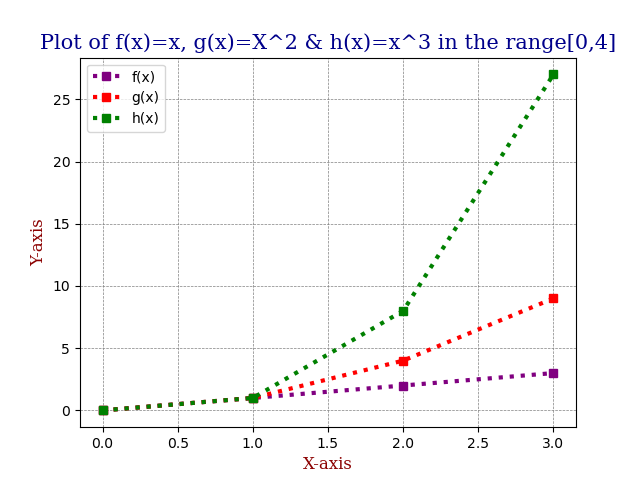
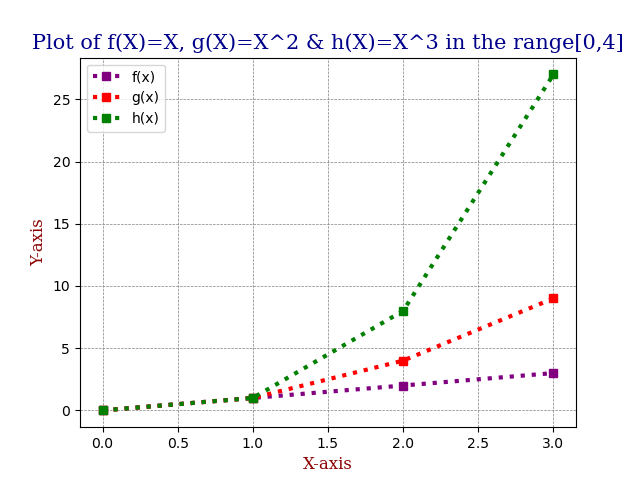
Spell checks and format changes

Changed region(s): [[0.0312, 0.0625, 0.9688, 0.125]]

diff --git a/secondstring.py b/secondstring.py
@@ -3,12 +3,12 @@
 # This program asks a user to input a string and outputs every second letter in reverse order. 
 # author: Fionn McCarthy - G00301126.
 
-# The input function is used below in order to get the user to ednter a sentence.
+# The input function is used below in order to get the user to enter a sentence.
 input_string = input('Please enter a sentence:')
 
-# From research I gathered teh formula used here for string slicing is - str_object[start_pos:end_pos:step].
-# As we want the full length of the string we do no enter the 'start_pos' or the 'end_pos' as we will use teh full string.
-# The '-' below is used to reverse teh string.
+# From research I gathered the formula used here for string slicing is - str_object[start_pos:end_pos:step].
+# As we want the full length of the string we do no enter the 'start_pos' or the 'end_pos' as we will use the full string.
+# The '-' below is used to reverse the string.
 # The '2' is used to print every second letter. 
 # Combining the above we now reverse the string and print every second letter
 

diff --git a/plottask.py b/plottask.py
@@ -24,7 +24,7 @@ plt.plot(hx, marker = 's', color = 'green' , ls = ':', lw = '3', label = 'h(x)')
 font1 = {'family':'serif','color':'darkblue','size':15} #setting font1 type
 font2 = {'family':'serif','color':'darkred','size':12} #setting font2 type
 
-plt.title("Plot of f(x)=x, g(x)=X^2 & h(x)=x^3 in the range[0,4]", fontdict = font1) #include plot title with font2
+plt.title("Plot of f(X)=X, g(X)=X^2 & h(X)=X^3 in the range[0,4]", fontdict = font1) #include plot title with font2
 plt.xlabel("X-axis", fontdict = font2) #include x-axis label with font2
 plt.ylabel("Y-axis", fontdict = font2) #include y-axis label with font2
 
@@ -36,3 +36,4 @@ plt.show()
 
 
 # https://www.w3schools.com/python/matplotlib_intro.asp w3schools tutorial matplotlib 01/04/2021
+# https://matplotlib.org/ 02/04/2021

diff --git a/bmi.py b/bmi.py
@@ -1,11 +1,11 @@
 # bmi.py
 # Weely Task 02.
 # This program calcluates a person's Body Mass Index (BMI) by inputting height(cm) and weigh(kg). 
-# The program then coverts the height to metres aapplies the BMI formula.
+# The program then coverts the height to metres and applies the BMI formula.
 # The BMI formula is weight(kg) divided by height(m) squared.
 # Author: Fionn McCarthy - G00301126.
 
-# The user is instructed to enter wieght in kg and height in cm.
+# The user is instructed to enter weight in kg and height in cm.
 # We must set the input to be a float in order to allow for decimal place values eg 88.5kg
 weight = float(input('Please enter weight(kg):'))
 height = float(input('Please enter height(cm):'))

diff --git a/es.py b/es.py
@@ -4,11 +4,10 @@
 # The program should take the filename from an argument on the command line.
 # author: Fionn McCarthy - G00301126.
 
-# As it was not speciifed I counted the number of e's and E's within the text file. 
 # Input: python es.py psf.txt
 
 
-import sys #
+import sys #import sys module to take an argument on teh command line
 filename = sys.argv[1] # takes the first command line argument 
 
 with open(filename, "r") as f:  #this line opens the file inputted (filename) in read mode ("r")

diff --git a/collatz.py b/collatz.py
@@ -7,9 +7,9 @@
 # author: Fionn McCarthy - G00301126.
 
 # Ask the user to input a positive number
-integer = int(input("Please input a positive number:"))
+integer = int(input("Please input a positive integer:"))
 
-# Integer must be positive therefore where greater than zero execute 
+# Integer must be positive therefore where greater than zero execute the code block
 # program ends when it is equal to 1
 
 if integer > 0:                             # Check number integer inputted is positive

diff --git a/README.md b/README.md
@@ -23,11 +23,12 @@ print ('BMI is {:.2f}.'.format(BMI))
 ```
 ### Solution:
 1. I used the input() fucntion in order to take an input from a user of height in centimeters and weight in kilogrammes. The inputs are both taken in as floats in order to allow for decimal point numbers. 
-2. The height in centimeters is then coverted to height in meters and is stored in the variable heightinmetres.
+2. The height in centimeters is then coverted to height in meters and is stored in the object 'heightinmetres'.
 3. The formula for caluclating BMI is used by divide the height in meters squared into the weight in kilogrammes.
 4. We then print the result for BMI using the print().
 ### Input: 
 **Please enter weight(kg): 65**
+
 **Please enter height(cm): 180**
 ### Outputput: 
 **BMI is 20.06.**
@@ -46,9 +47,9 @@ print(input_string[::-2])
 ### Solution:
 1. Initially the user is asked to input a sentence and the this is then called 'input_string'.
 2. The method of string slicing is used in order to create a substring from the exisitng string that has been inputted. 
-3. The syntax for this method is input_string[starting_position : end_position : step]. 
-4. We will use teh full string in this case so there is no need to specify a start and end psootion here. For teh step we will use a negative in order to reverse the string and the number 2 would mean stepping every second letter. Therefore -2 being every second letter in reverse order.
-5. This is then printed in order to return teh string inputted by the user in reverse order every second letter. 
+3. The syntax for this method is input_string [ starting_position : end_position : step ]. 
+4. We will use the full string in this case so there is no need to specify a start and end position here. For the step we will use a negative in order to reverse the string and the number 2 would mean stepping every second letter. Therefore -2 being every second letter in reverse order.
+5. This is then printed in order to return the string inputted by the user in reverse order every second letter. 
 ### Input:
 **Please enter a sentence: The quick brown fox jumps over the lazy dog.**
 ### Outputput:
@@ -79,8 +80,8 @@ else:
     print("That number is not positive! Please input a positive number.")
 ```
 ### Solution:
-1. The user is instructed to enter a positive integer, this is taken as an integer on teh input and stored as 'integer'.
-2. The if statement is used in order to execute the next block of code only if the number is greater than zero (positive), if it is not positive teh user will be instructed to enter a positive integer.
+1. The user is instructed to enter a positive integer, this is taken as an integer on the input and stored as 'integer'.
+2. The if statement is used in order to execute the next block of code only if the number is greater than zero (positive), if it is not positive the user will be instructed to enter a positive integer.
 3. The next block of code will be executed when the integer is positive which is a while loop.
 4. The while loop will continue to run until the number reaches 1.
 5. In the while loop first the number is printed then it will run an if else statement.
@@ -126,8 +127,8 @@ else:
     print("It is the weekend, yay!") 
 ```
 ### Solution:
-1. From teheresearch I fount the module datetime can be used to work with dates as date objects.
-2. In orde to get what day of the week it is we used datetime.datetime.today().weekday(). This will return the number (0 to 6) day of the week from the timestamp of execution.
+1. From the research I found the module datetime can be used to work with dates as date objects.
+2. In order to get what day of the week it is we used datetime.datetime.today().weekday(). This will return the number (0 to 6) day of the week from the datetime of execution of teh script.
 3. Monday was 0 and Sunday was 6, therefore 0 to 4 were weekdays and 5 to 6 were weekends.
 4. Using the above an if statement was used, if today the day number from the current datetime was less than 5 it would be a week day or else it would be a weekend.  
 ### References:
@@ -163,12 +164,12 @@ else:
     print("Please enter a positive number") 
 ```
 ### Solution:
-1. Initially I define the function Sqrt(), where I set out what the function will do when ever it is called upon. Form the research I found..
+1. Initially I define the function Sqrt(), where I set out what the function will do when ever it is called upon. From the research I found..
 2. 
 3. 
 4. The user is asked to input a positive number, it is set as a float to enable a decimal point number being entered here.  
 5. The if statement is used in order to error handle a negative number being entered. 
-6. Therefore if teh number is greatwer than 1 the blcok of code will be executed, which willl apply the sqrt() function defined previously to teh number entered and store it in 'Squareroot'.
+6. Therefore if the number is greater than 1 the block of code will be executed, which will apply the sqrt() function defined previously to the number entered and store it in 'Squareroot'.
 7. The squareroot of the number is then printed. 
 ### Input:
 **Enter a positive number: 14.5**
@@ -196,10 +197,10 @@ with open(filename, "r") as f:
 ### Solution:
 1. The sys module is imported here as it will enable me to take the filename as an argument on the command line.
 2. The sys.argv[1] takes the first command line argument.
-3.  I looked for a text file online in order to use for this program, it is called psf.txt and is referneced below. 
-4. The code will then open the file that was given on the command line in in read more "r". 
-5. The files data is then stored in an object called filedata using the read() .  function as the data is read and then stored.
-6. The function count() is used in order to count the number of e's in the filedata and prin the corresponding value. 
+3.  I looked for a text file online in order to use for this program, it is called psf.txt and is referenced below. 
+4. The code will then open the file that was given on the command line in read more "r". 
+5. The files data is then stored in an object called filedata using the read() function as the data is read and then stored.
+6. The function count() is used in order to count the number of e's in the filedata and print the corresponding value. 
 ### Command line:
 **python es.py psf.txt**
 ### Outputput:
@@ -243,18 +244,18 @@ plt.savefig('plottask_output.png')
 plt.show()
 ```
 ### Solution:
-1. The numpy and matplotlib.pupplot modules are imported in order to work with the array of numbers and then also in order to generate the plot of the given functions in the given range 0 to 4.
-2. First I defined the functions to be plotted f(x), g(x) and h(x).
-3. The plt.plot() function is used in order to plot f(x). It is plotted with square markers, purple colour, line style of':', line width of 3 and also teh label f(x) here is needed for the legend.
-4. The plt.plot() function is used in order to plot g(x). It is plotted with square markers, red colour, line style of':', line width of 3 and also teh label g(x) here is needed for the legend.
-5. The plt.plot() function is used in order to plot h(x). It is plotted with square markers, green colour, line style of':', line width of 3 and also teh label h(x) here is needed for the legend.
-6. I created two font types font1 anf font2 for teh plot. Font1 will be used for the title and dofnt2 will be used for teh axis labels. 
-7. I specified mt title string and to use font1 font type using plt.title.
+1. The numpy and matplotlib.pypplot modules are imported in order to work with the array of numbers and then also in order to generate the plot of the given functions in the given range 0 to 4.
+2. First I defined the functions to be plotted f(X), g(X) and h(X).
+3. The plt.plot() function is used in order to plot f(X). It is plotted with square markers, purple colour, line style of ':', line width of 3 and also the label f(X) here is needed for the legend.
+4. The plt.plot() function is used in order to plot g(X). It is plotted with square markers, red colour, line style of ':', line width of 3 and also the label g(X) here is needed for the legend.
+5. The plt.plot() function is used in order to plot h(X). It is plotted with square markers, green colour, line style of ':', line width of 3 and also the label h(X) here is needed for the legend.
+6. I created two font types font1 anf font2 for the plot. Font1 will be used for the title and font2 will be used for the axis labels. 
+7. I specified the title string and to use font1 font type using plt.title.
 8. I used plt.xlabel and plt.ylabel to label each axis and specified to use font2 font type.
-9. In order to change how teh grid would look i used plt.grid to set the colour, style and width of the grid lines of the plot.
-10. I then used plt.legend to include a legend on the plot, this will use teh labels I specified in plt.plot()
+9. In order to change how the grid would look i used plt.grid to set the colour, style and width of the grid lines of the plot.
+10. I then used plt.legend to include a legend on the plot, this will use the labels I specified in plt.plot()
 11. The image outputted form the above plot was saved using the plt.savefig() to save this plot before viewing.
-12. Plt.show() then displays teh output form the plot. This can be seen below. 
+12. Plt.show() then displays the output form the plot. This can be seen below. 
 #### Plot Output:
 ![xplotoutput](plottask_output.png) 
 
